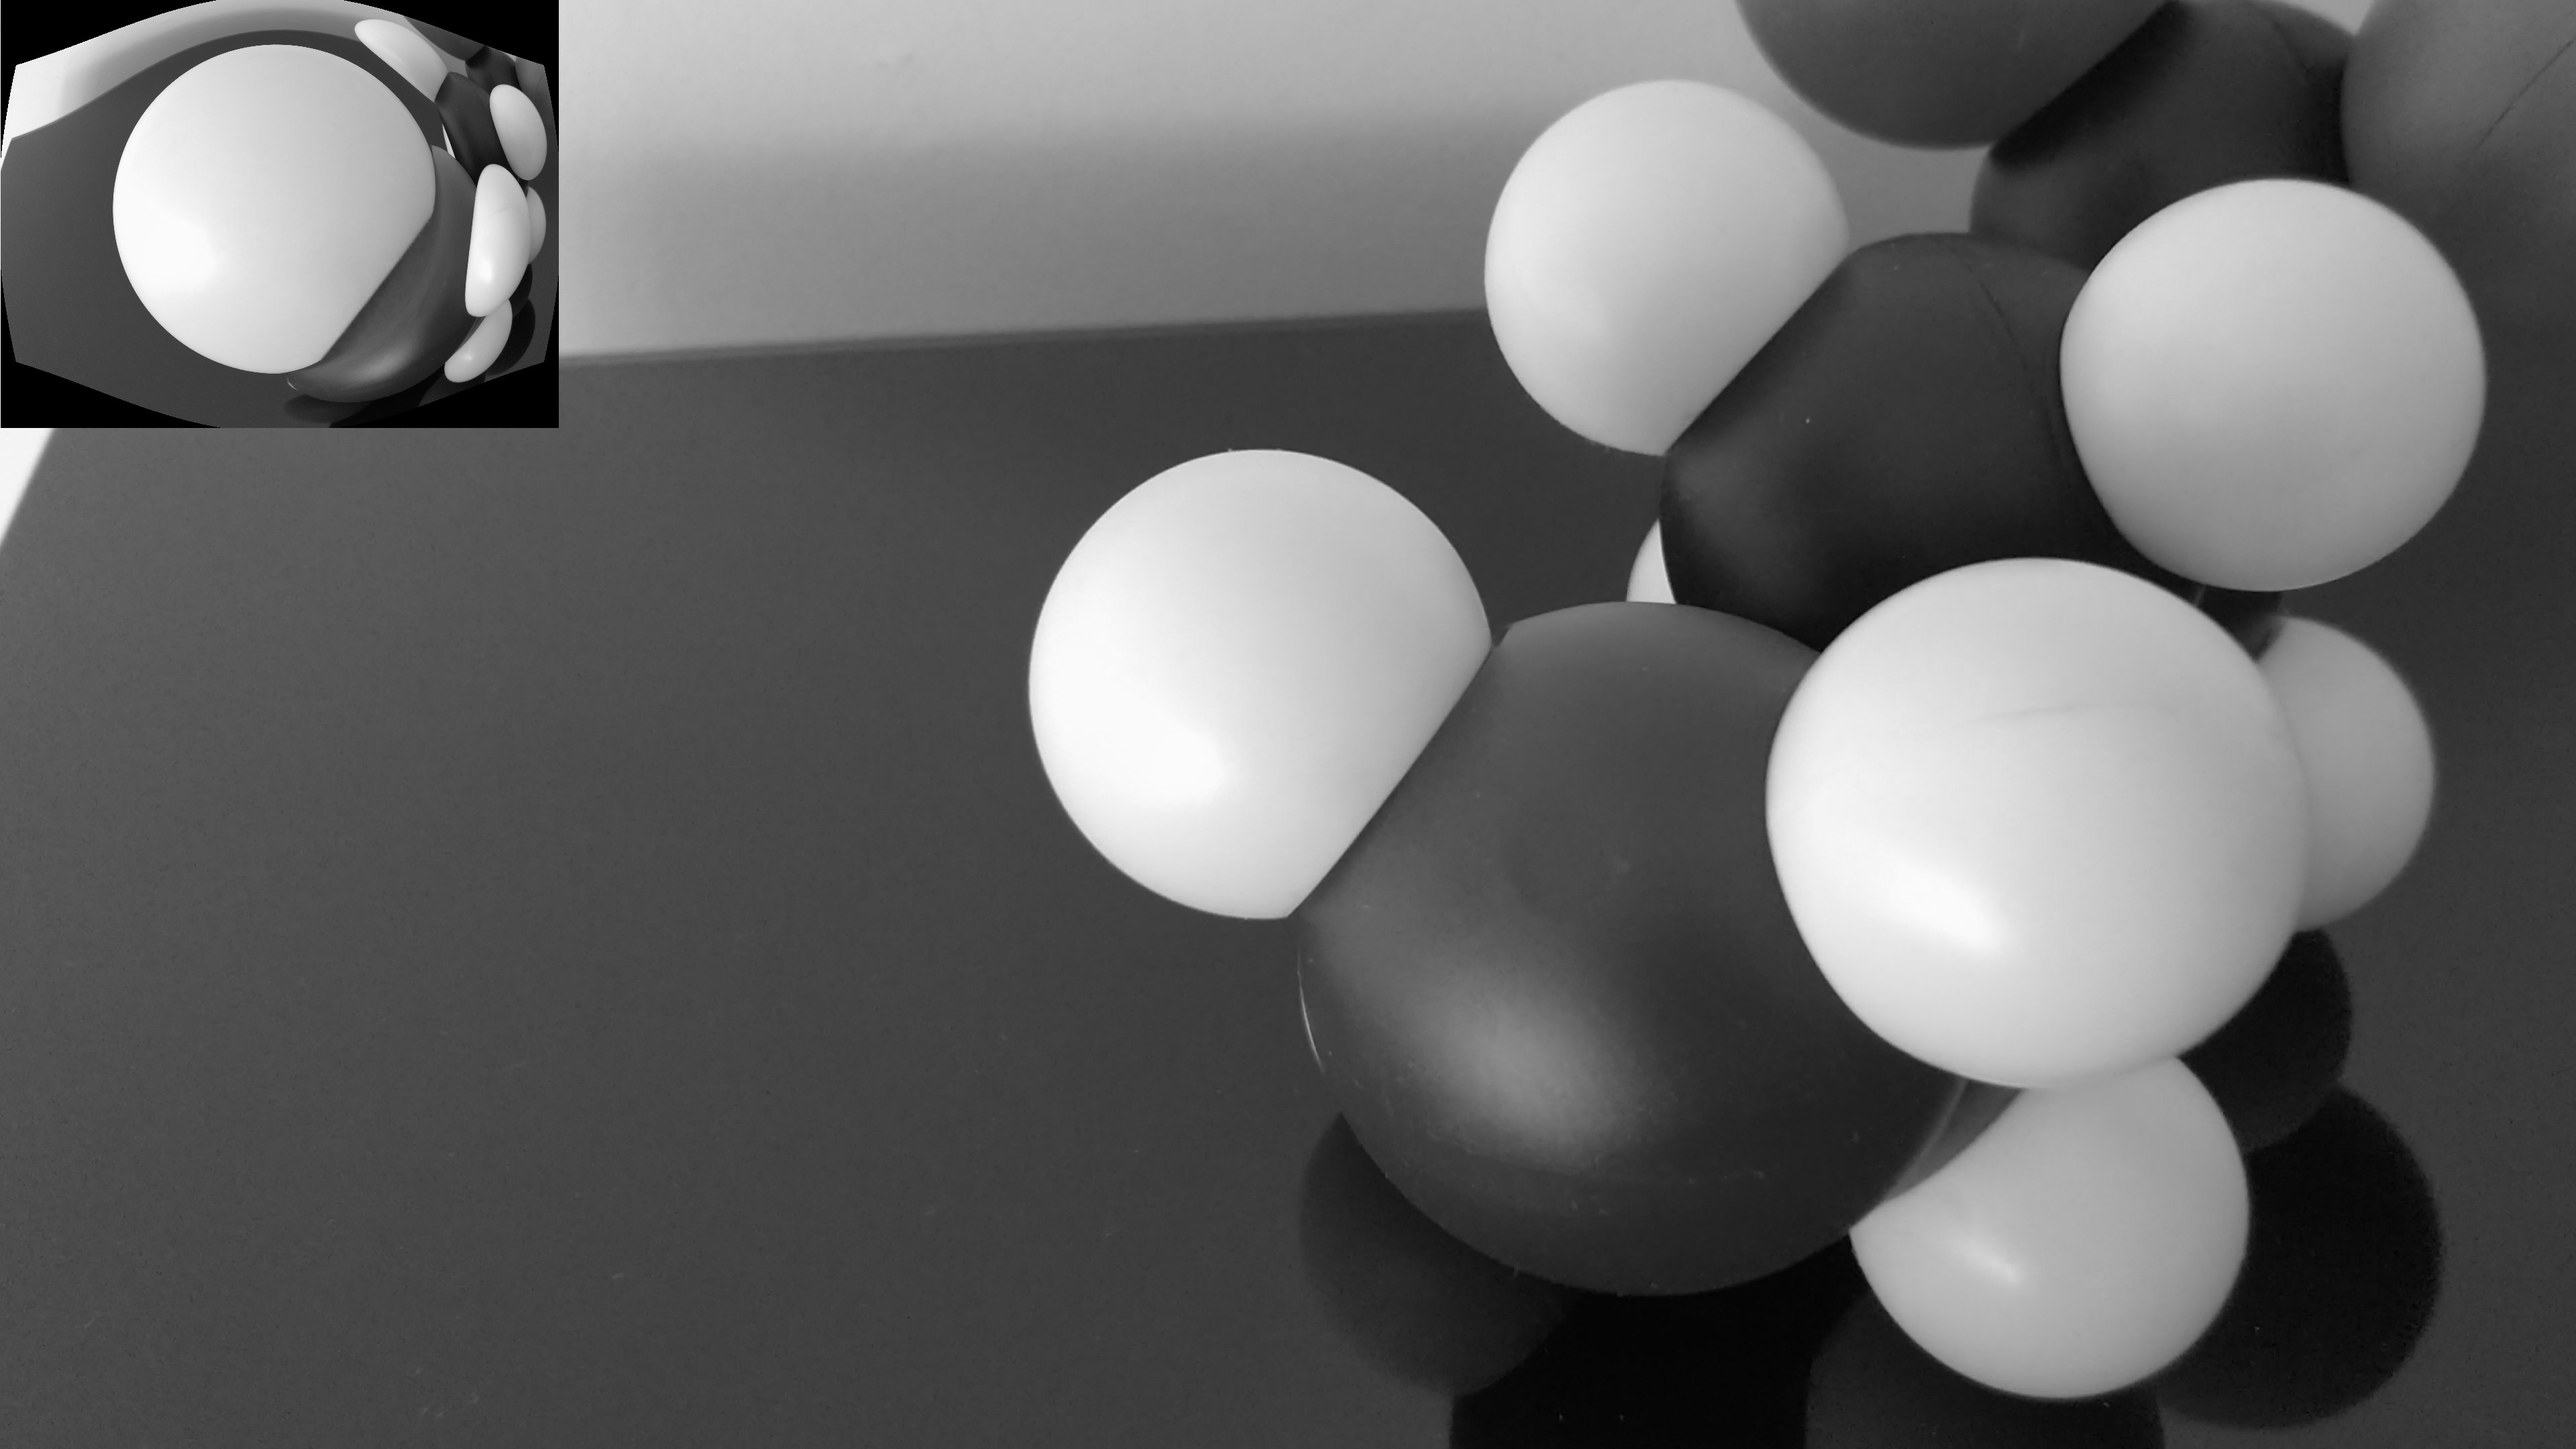
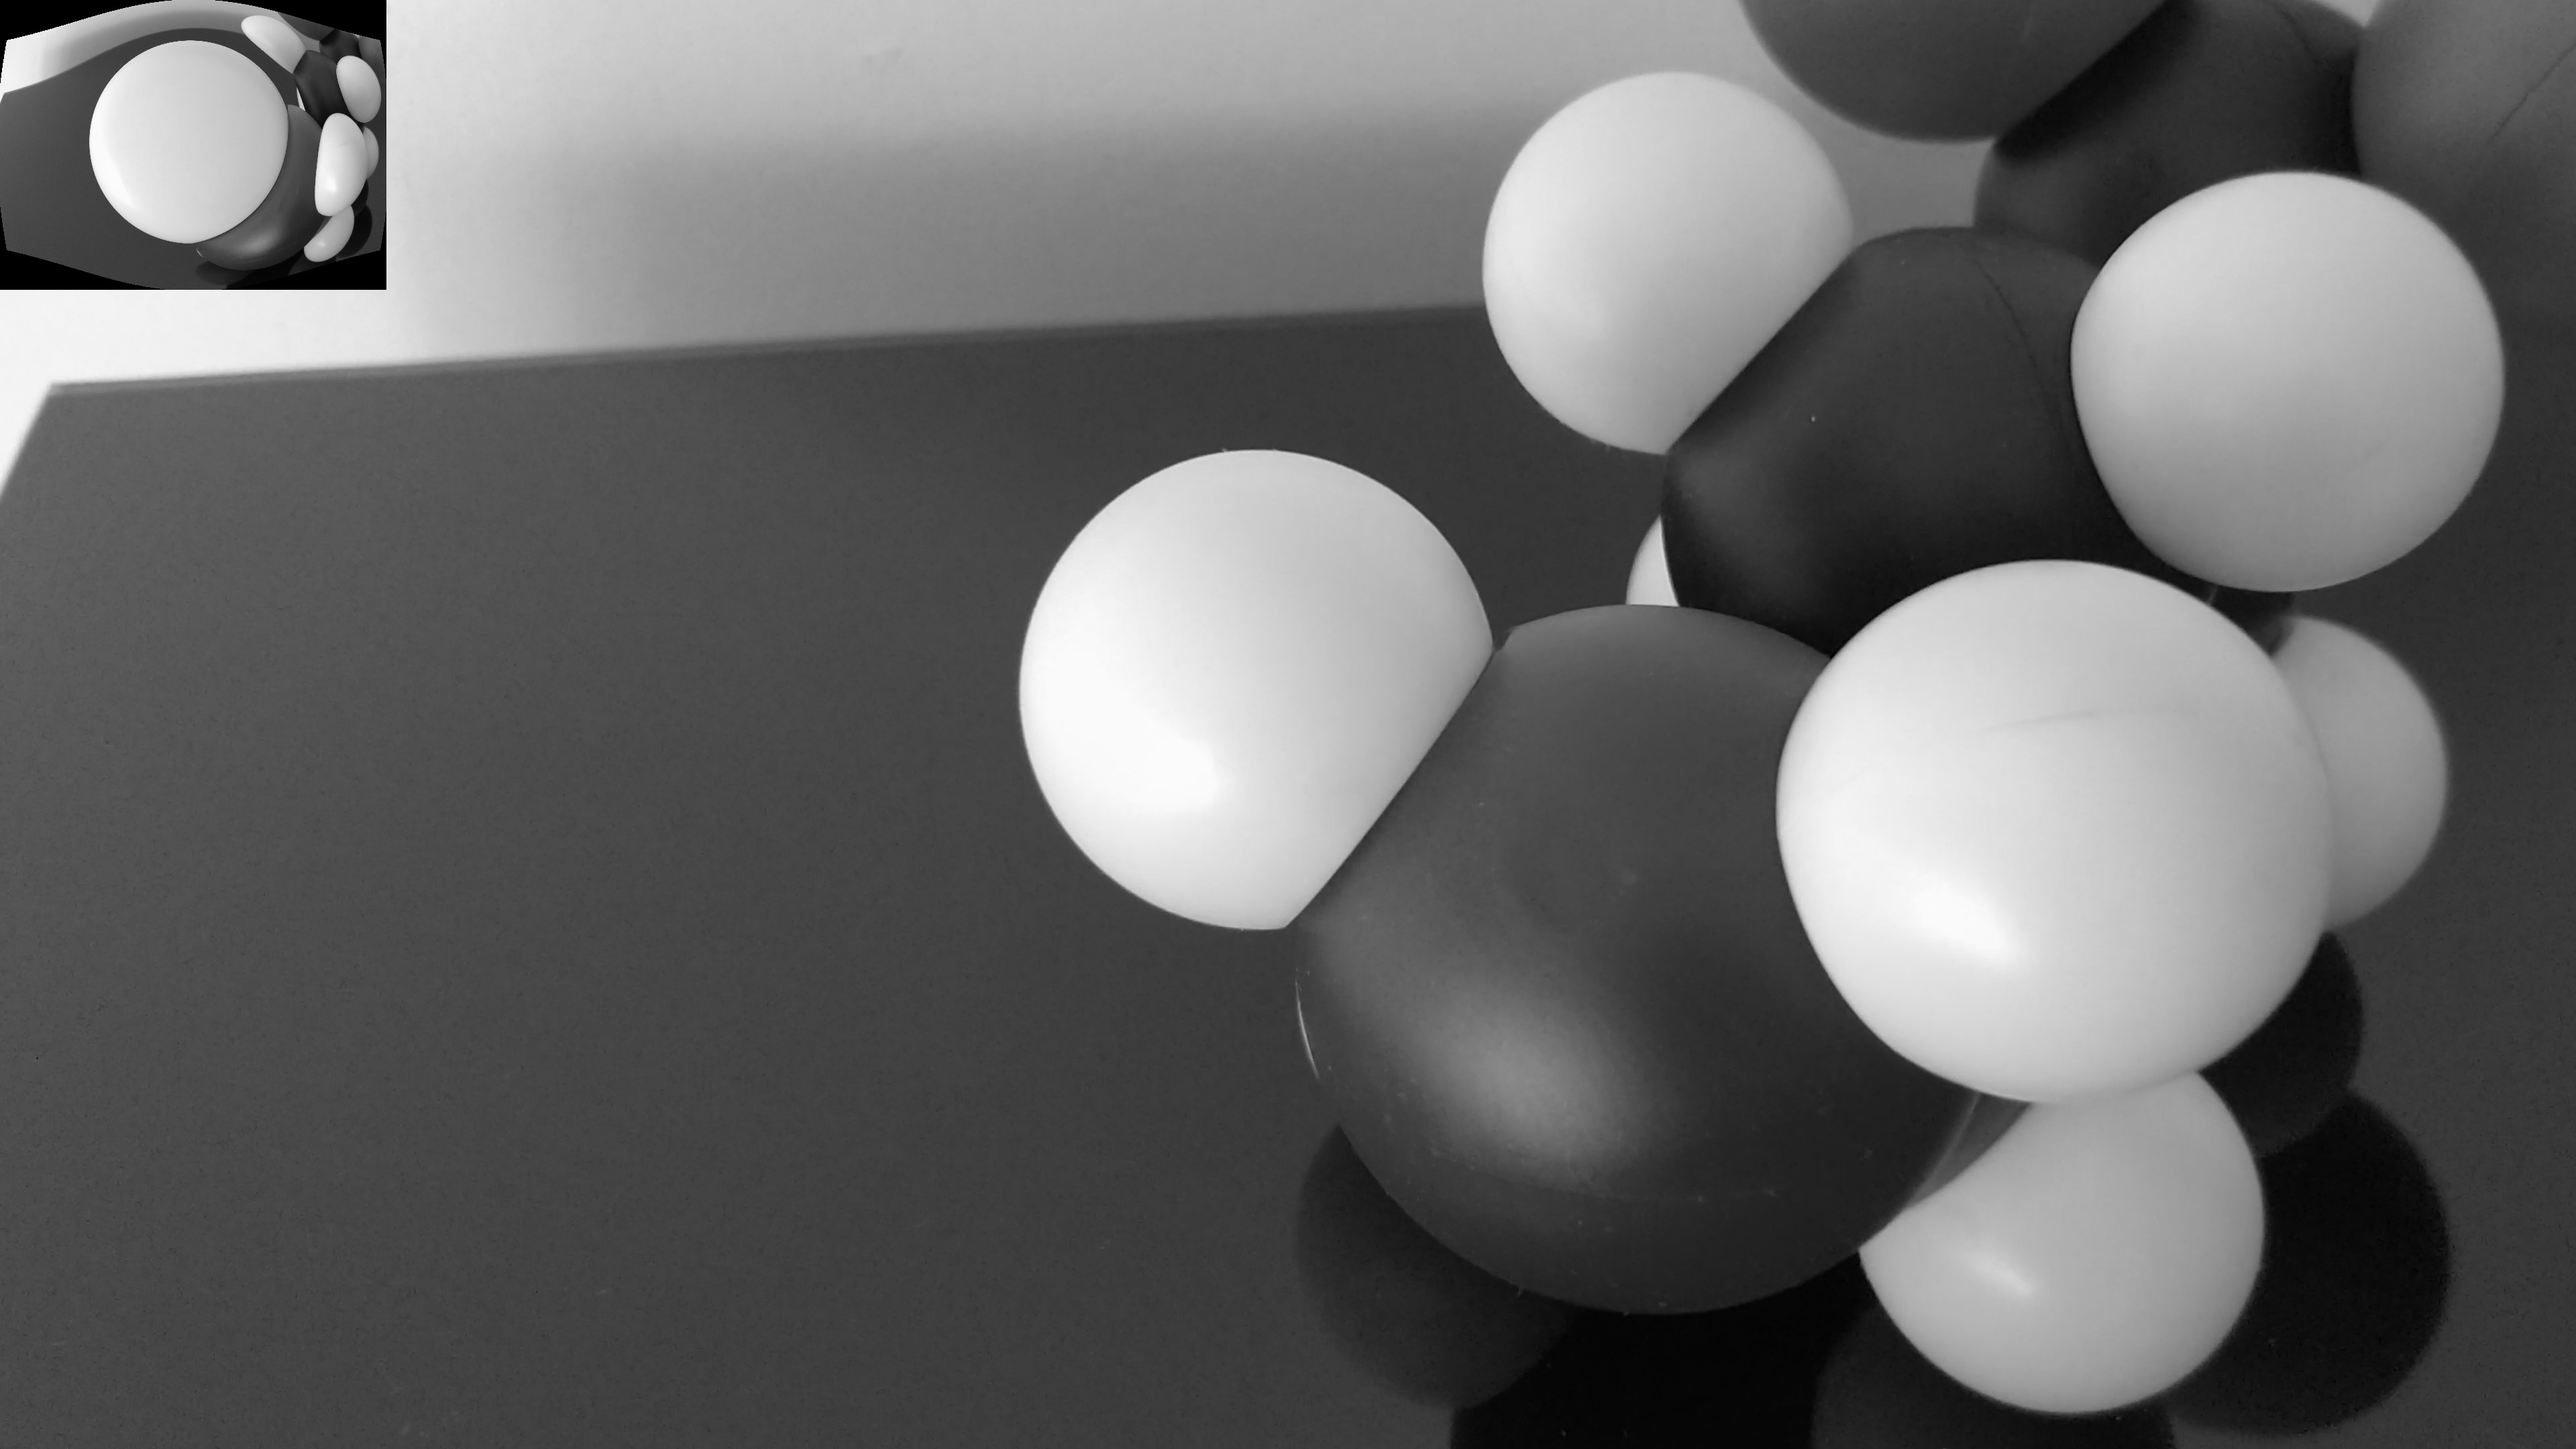
:sparkles: update sampling content

diff --git a/pages/artificial_intelligence/sensors/retina/retina_modelisation.md b/pages/artificial_intelligence/sensors/retina/retina_modelisation.md
@@ -147,14 +147,14 @@ For the simulation I preferred to keep this factor by decreasing the outer ratio
 </center>
 
 <center>
-<a href="" rel="some text"><img src="img/cones_output_00316.jpg" alt="Cones/Rods distribution" /></a>
+<a href="" rel="some text"><img src="img/cones_output.jpg" alt="Cones/Rods distribution" /></a>
 </center>
 <center>
-    <i>Fig. 5. Simulated Cones sampling from a 4K camera with a fov of 74°</i>
+    <i>Fig. 5. Simulated Cones sampling from a 4K camera with a fov of 74° (576 x 432)</i>
 </center>
 
-With 22 300/2000 distribution I have around 500 000 cones simulated. There is a factor 10 with the real retina due to:
-- the subsampling the cones
+With 22 300/2000 distribution I have around 240 000 cones simulated which represent only 4.8% of the 5 000 000 cones. There is a factor 20 with the real retina due to:
+- the subsampling the cones which removes 80% of them
 - the field of view of the camera is only 74° against 160° for the eye
 - the vertical Field Of View is lower than the horizontal one
 
@@ -182,7 +182,7 @@ For the simulation I choose 70% M-Type cones, 25% L-Type cones and 5% S-Type con
 The real cone response is a membrane potential change that decrease rapidly. With the pixel we have a value between 0 and 254 that is stable under constant illumination. I will handle these differences by changing the processing of the upper layer (in next sections).
 
 <center>
-<a href="" rel="some text"><img src="img/photo_receptor_colors.jpg" alt="Cones/Rods distribution" /></a>
+<a href="" rel="some text"><img src="img/photo_receptor_colors.png" alt="Cones/Rods distribution" /></a>
 </center>
 <center>
     <i>Fig. 7. Cones L-Type M-Type and S-Type simulation over a green object. You may notice that a lot of pixels are white because 70% the cones are green cones</i>
@@ -190,7 +190,7 @@ The real cone response is a membrane potential change that decrease rapidly. Wit
 
 I also made a video of the cone simulation. The camera pass over green, blue and red objects.
 <center>
-<iframe width="560" height="315" src="https://www.youtube.com/embed/kNYYPoeiTLY" frameborder="0" allow="accelerometer; autoplay; encrypted-media; gyroscope; picture-in-picture" allowfullscreen></iframe>
+<iframe width="560" height="315" src="https://www.youtube.com/embed/LK4tsv8Rbtw" frameborder="0" allow="accelerometer; autoplay; encrypted-media; gyroscope; picture-in-picture" allowfullscreen></iframe>
 </center>
 <center>
     <i>Vid. 1. Cones L-Type M-Type and S-Type simulation over different objects with different colors.</i>
